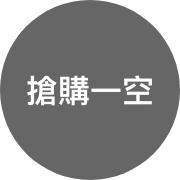
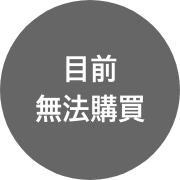
대만 수정

Changed region(s): [[0.1389, 0.3056, 0.8611, 0.6944]]

diff --git a/src/tw/index_phase2.html b/src/tw/index_phase2.html
@@ -126,27 +126,31 @@
 						<ul class="list_navigation smooth-scroll">
 							<li class="list-item">
 								<a href="#MemberExclusiveOffers" 
-									data-track-group="mic" data-track-name="members_week_anchor_click"
-									data-link-name="memberdays_anchor_benefit" 
-									data-link-area="memberdays_2022" 
+									data-track-group="mic" data-track-name="memberdays_H2_Anchor_click_P2"
+									data-link-area="memberdays_H2_Anchor_click_P2_MemberExclusiveOffers" 
+									data-link-name="memberdays_2022H2" 
 									class="link">查看會員獨家優惠</a>
 							</li>
 							<li class="list-item">
-								<a href="#HolidayCollection" 
-									data-track-group="mic" data-track-name="members_week_anchor_click"
-									data-link-name="memberdays_anchor_click_hottest_product" 
-									data-link-area="memberdays_2022" 
-									class="link">查看產品周優惠</a>
+								<a href="#MembershipEvent"  
+									data-track-group="mic" data-track-name="memberdays_H2_Anchor_click_P2"
+									data-link-area="memberdays_H2_Anchor_click_P2_MembershipEvent" 
+									data-link-name="memberdays_2022H2" 
+									class="link">參加會員抽獎任務</a>
               </li>
 							<li class="list-item">
-								<a href="#MembershipEvent" 
-									data-track-group="mic" data-track-name="members_week_anchor_click"
-									data-link-name="memberdays_anchor_click_design_lifestyle" 
-									data-link-area="memberdays_2022" 
-									class="link">發掘會員精彩活動</a>
+								<a href="#SparklingDeals"
+									data-track-group="mic" data-track-name="memberdays_H2_Anchor_click_P2"
+									data-link-area="memberdays_H2_Anchor_click_P2_sparklingdeals" 
+									data-link-name="memberdays_2022H2" 
+									class="link">查看限量璀璨價</a>
 							</li>
               <li class="list-item">
-                <a href="#SparklingDeals" class="link">查看熱銷精選</a>
+                <a href="#BuymoreSavemore"
+								data-track-group="mic" data-track-name="memberdays_H2_Anchor_click_P2"
+								data-link-area="memberdays_H2_Anchor_click_P2_BuymoreSavemore" 
+								data-link-name="memberdays_2022H2" 
+								 class="link">瀏覽年度精選商品</a>
               </li>
 						</ul>
 					</div>
@@ -2523,7 +2527,7 @@
 
 	<!-- UI Script -->
 	<script src="https://unpkg.com/@lottiefiles/lottie-player@latest/dist/lottie-player.js"></script>
-	<script src="../assets/js/index.js"></script>
+	<script src="../assets/js/tw/index.js"></script>
 	<script>
 		if ($('.lottie').length > 0) {
 			var delay = setTimeout(function(){

diff --git a/src/assets/css/index_tw.scss b/src/assets/css/index_tw.scss
@@ -714,6 +714,38 @@
 					background-image: url('../images/tw/hotdeal_on.png');
 				}
 			}
+			.product__item {
+				&:nth-child(1),
+				&:nth-child(3) {
+					.hotdeal_bg {
+						background-image: url('../images/tw/hotdeal5_on.png');
+						&.hotdeal_soldout {
+							background-image: url('../images/tw/hotdeal_close.png');
+						}
+					}
+				}
+				&:nth-child(2),
+				&:nth-child(4),
+				&:nth-child(5),
+				&:nth-child(6) {
+					.hotdeal_bg {
+						background-image: url('../images/tw/hotdeal10_on.png');
+						&.hotdeal_soldout {
+							background-image: url('../images/tw/hotdeal_close.png');
+						}
+					}
+				}
+				&:nth-child(7),
+				&:nth-child(8),
+				&:nth-child(9) {
+					.hotdeal_bg {
+						background-image: url('../images/tw/hotdeal20_on.png');
+						&.hotdeal_soldout {
+							background-image: url('../images/tw/hotdeal_close.png');
+						}
+					}
+				}
+			}
 		}
 
 		@media (max-width: 1024px) {
@@ -743,13 +775,15 @@
 			}
 		}
 	}
-}
 
-.product--hotdeal {
-	.product__img {
-		.hotdeal_bg {
-			&.hotdeal_soldout {
-				background-image: url('../images/tw/hotdeal_close.png');
+	.product{
+		&--hotdeal {
+			.product__img {
+				.hotdeal_bg {
+					&.hotdeal_soldout {
+						background-image: url('../images/tw/hotdeal_soldout.png') !important;
+					}
+				}
 			}
 		}
 	}

diff --git a/src/assets/js/tw/index.js b/src/assets/js/tw/index.js
@@ -35,16 +35,9 @@ $(document).ready(function(){
 			$contents.each(function (index) {
 				var $this = $(this);
 				if($('.lgmembersweek').hasClass('phase2')) {
-					if($(window).width() < 1024) {
-						if (windowTop < $this.offset().top - $('.box_navigation').height() + $this.height() - 60) {
-							targetIndex = index;
-							return false;
-						}
-					} else {
-						if (windowTop < $this.offset().top - $('.box_navigation').height() + $this.height() - 10) {
-							targetIndex = index;
-							return false;
-						}
+					if (windowTop < $this.offset().top - $('.box_navigation').height() + $this.height() + 10) {
+						targetIndex = index;
+						return false;
 					}
 				} else {
 					if (windowTop < $this.offset().top - $('.box_navigation').height() + $this.height() - 2) {

diff --git a/src/tw/index.html b/src/tw/index.html
@@ -134,8 +134,8 @@
 				<div class="section">
 					<div class="section__inner">
 						<div class="section__header">
-							<h1 class="section__title">LG璀璨會員日 即將登場</h1>
 							<p class="section__desc">11/30-12/13</p>
+							<h1 class="section__title">LG璀璨會員日 <span class="break--mobile"></span>即將登場</h1>
 							<p class="section__desc">點亮您的冬季佳節</p>
 							<p class="section__desc">立即註冊，即有機會贏得大獎及獨家優惠</p>
 						</div>
